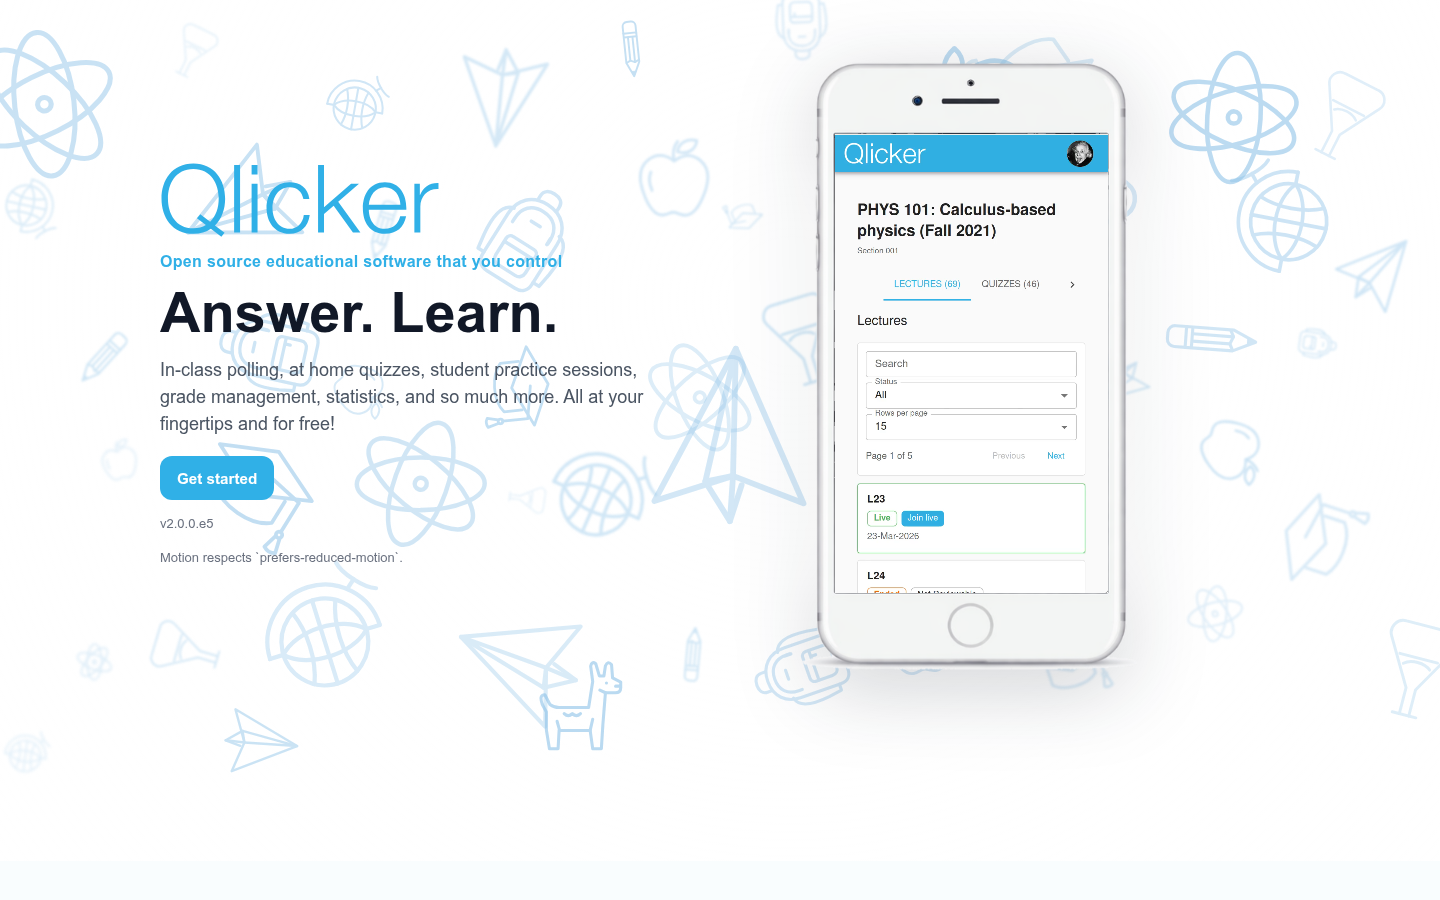
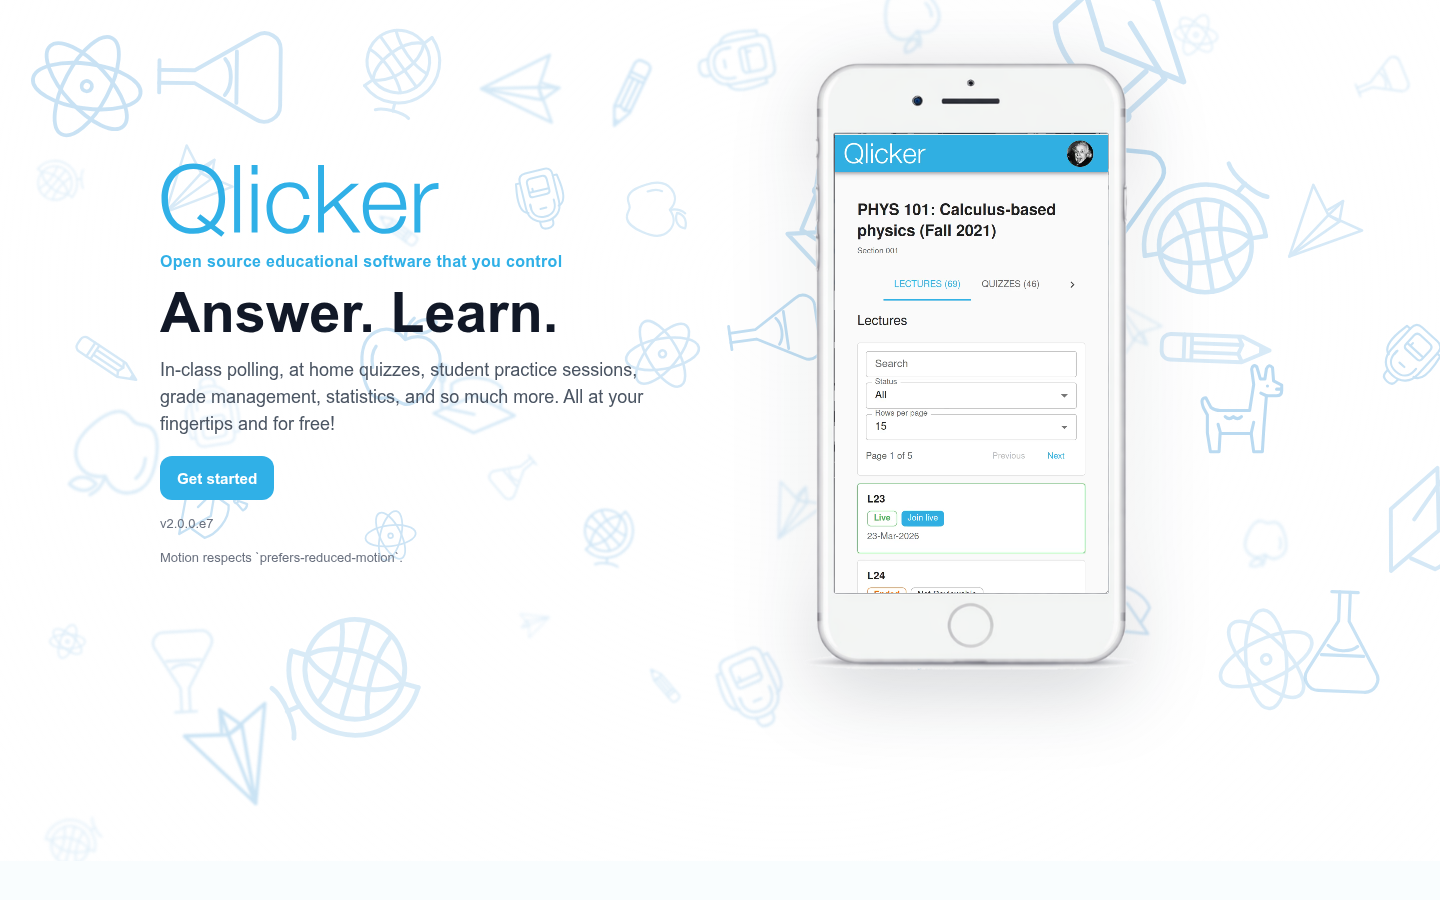
Randomize mobile llama placement across page gaps

diff --git a/client/src/pages/Home.jsx b/client/src/pages/Home.jsx
@@ -31,6 +31,7 @@ export default function Home() {
   const canvasRef = useRef(null);
   const llamaRef = useRef(null);
   const [llamaGreetingOpen, setLlamaGreetingOpen] = useState(false);
+  const [llamaMobileSlot] = useState(() => ['top', 'middle', 'bottom'][Math.floor(Math.random() * 3)]);
 
   useEffect(() => {
     const hero = heroRef.current;
@@ -47,16 +48,28 @@ export default function Home() {
         x: 28 + x * Math.max(0, heroBounds.width - size - 148),
         y: 64 + y * Math.max(0, heroBounds.height - size - 92),
       }));
-      const position = positions.find(({ x, y }) => obstacles.every((bounds) => (
+      let position = positions.find(({ x, y }) => obstacles.every((bounds) => (
         x + size + 112 < bounds.left - heroBounds.left
         || x - 20 > bounds.right - heroBounds.left
         || y + size + 20 < bounds.top - heroBounds.top
         || y - 60 > bounds.bottom - heroBounds.top
       ))) || {
-        // The reserved bottom space always leaves room on narrow screens.
+        // Desktop fallback when none of the random candidates clears the content.
         x: positions[0].x,
         y: heroBounds.height - size - 24,
       };
+      if (window.matchMedia('(max-width: 920px)').matches) {
+        // Mobile reserves one randomly selected gap instead of always using the footer.
+        const [copy, device] = obstacles;
+        const gapStart = llamaMobileSlot === 'top' ? 0
+          : (llamaMobileSlot === 'middle' ? device.bottom : copy.bottom) - heroBounds.top;
+        const gapEnd = llamaMobileSlot === 'bottom' ? heroBounds.height
+          : (llamaMobileSlot === 'top' ? device.top : copy.top) - heroBounds.top;
+        position = {
+          x: positions[0].x,
+          y: gapStart + 24 + candidates[0].y * Math.max(0, gapEnd - gapStart - size - 48),
+        };
+      }
       llama.style.left = `${position.x}px`;
       llama.style.top = `${position.y}px`;
       setLlamaGreetingOpen(false);
@@ -67,7 +80,7 @@ export default function Home() {
     observer.observe(hero);
     content.forEach((element) => observer.observe(element));
     return () => observer.disconnect();
-  }, []);
+  }, [llamaMobileSlot]);
 
   useEffect(() => {
     const prefersReducedMotion = window.matchMedia('(prefers-reduced-motion: reduce)').matches;
@@ -257,7 +270,7 @@ export default function Home() {
   return (
     <>
       <ConnectionStatus />
-      <main className="homeHero" id="hero" ref={heroRef} style={theme.palette.mode === 'dark' ? {
+      <main className="homeHero" id="hero" ref={heroRef} data-llama-mobile-slot={llamaMobileSlot} style={theme.palette.mode === 'dark' ? {
         '--hero-text': theme.palette.text.primary,
         '--hero-background': theme.palette.background.default,
         '--hero-secondary': theme.palette.text.secondary,

diff --git a/client/e2e/public-overview.spec.js b/client/e2e/public-overview.spec.js
@@ -63,6 +63,44 @@ test('the landing page llama supports touch and reduced motion on mobile', async
   await expect(greeting).toHaveCount(0);
 });
 
+for (const [slot, random] of [['top', 0.1], ['middle', 0.5], ['bottom', 0.9]]) {
+  test(`the mobile llama can start in the ${slot} gap and keeps its slot on resize`, async ({ page }, testInfo) => {
+    await page.addInitScript((value) => { Math.random = () => value; }, random);
+    await page.emulateMedia({ reducedMotion: 'reduce' });
+    await page.setViewportSize({ width: 390, height: 844 });
+    await page.goto('/');
+    const llama = page.getByRole('button', { name: 'Llama', exact: true });
+    await expect(llama).toHaveCount(1);
+    await page.evaluate(async () => {
+      await document.fonts.ready;
+      await document.querySelector('.homeHeroPhone').decode();
+    });
+
+    for (const width of [390, 320, 768, 390]) {
+      await page.setViewportSize({ width, height: 844 });
+      await expect.poll(() => page.evaluate(() => {
+        const hero = document.querySelector('.homeHero').getBoundingClientRect();
+        const llama = document.querySelector('.homeHeroLlama').getBoundingClientRect();
+        const device = document.querySelector('.homeHeroDevice').getBoundingClientRect();
+        const copy = document.querySelector('.homeHeroCopy').getBoundingClientRect();
+        if (llama.left < hero.left || llama.right > hero.right || llama.top < hero.top || llama.bottom > hero.bottom) return 'clipped';
+        if (llama.bottom < device.top) return 'top';
+        if (llama.top > device.bottom && llama.bottom < copy.top) return 'middle';
+        if (llama.top > copy.bottom) return 'bottom';
+        return 'overlaps content';
+      })).toBe(slot);
+      expect(await page.evaluate(() => document.documentElement.scrollWidth <= window.innerWidth + 1)).toBe(true);
+    }
+
+    await llama.hover();
+    await expect(page.getByRole('tooltip')).toHaveText('hello');
+    const bubbleBounds = await page.getByRole('tooltip').boundingBox();
+    expect(bubbleBounds.x).toBeGreaterThanOrEqual(0);
+    expect(bubbleBounds.x + bubbleBounds.width).toBeLessThanOrEqual(390);
+    await page.screenshot({ path: testInfo.outputPath(`llama-${slot}-mobile.png`), fullPage: true });
+  });
+}
+
 test('the landing page keeps the other doodles when one asset cannot decode', async ({ page }) => {
   await page.emulateMedia({ reducedMotion: 'no-preference' });
   await page.setViewportSize({ width: 800, height: 600 });

diff --git a/client/src/pages/HomeAnimated.css b/client/src/pages/HomeAnimated.css
@@ -169,6 +169,19 @@
 }
 
 @media (max-width: 920px) {
+  .homeHero[data-llama-mobile-slot='top'] {
+    padding-top: 180px;
+    padding-bottom: clamp(20px, 4vw, 48px);
+  }
+
+  .homeHero[data-llama-mobile-slot='middle'] {
+    padding-bottom: clamp(20px, 4vw, 48px);
+  }
+
+  .homeHero[data-llama-mobile-slot='middle'] .homeHeroContent {
+    row-gap: 180px;
+  }
+
   .homeHeroContent {
     grid-template-columns: 1fr;
   }

diff --git a/docs/developer/development-guide.md b/docs/developer/development-guide.md
@@ -177,7 +177,7 @@ REDIS_URL= QCLICKER_CAPTURE_MANUALS=1 npx playwright test e2e/public-overview.sp
 
 The anonymous review test also runs as a normal browser regression without the capture variable; only screenshot writing and the landing-page capture require opt-in.
 
-The landing-page doodles are SVG outlines in `client/public/animated-hero/assets/doodles/`. Keep their strokes inside the viewBox with padding. `Home.jsx` repeats the school doodles on a decorative canvas, skipping images that fail to load or decode. If every image fails, the page remains usable without the canvas animation. It renders the llama once as a separate button so its localized greeting works on hover, keyboard focus, and touch. It chooses a random open position on each visit, keeps clear of the page content, and uses a pale-blue outlined speech bubble. Its floating animation pauses during interaction and stops with reduced motion. Keep the llama out of the repeating sprite list. The public-overview browser tests cover this interaction and partial asset failures.
+The landing-page doodles are SVG outlines in `client/public/animated-hero/assets/doodles/`. Keep their strokes inside the viewBox with padding. `Home.jsx` repeats the school doodles on a decorative canvas, skipping images that fail to load or decode. If every image fails, the page remains usable without the canvas animation. It renders the llama once as a separate button so its localized greeting works on hover, keyboard focus, and touch. It chooses a random open position on each visit, keeps clear of the page content, and uses a pale-blue outlined speech bubble. On narrow screens, the space for the llama is randomly placed above the phone, between the phone and text, or below the text; this choice stays fixed while resizing or interacting with the page. Its floating animation pauses during interaction and stops with reduced motion. Keep the llama out of the repeating sprite list. The public-overview browser tests cover this interaction and partial asset failures.
 
 After switching branches with Vite running, restart the development server if an existing public SVG URL returns the app's HTML instead of `image/svg+xml`; its cached public-file list may be stale. The loader tolerates that failed doodle, but restarting restores the missing asset.
 
